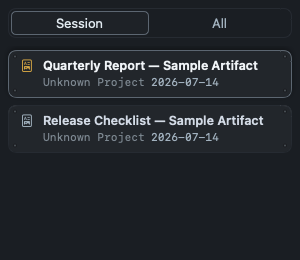
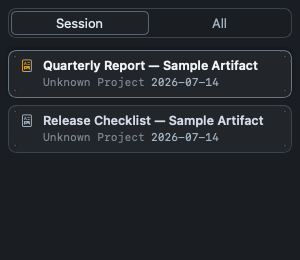
Improve dock list contrast

diff --git a/app/Sources/App/SharedUI/Theme.swift b/app/Sources/App/SharedUI/Theme.swift
@@ -8,7 +8,7 @@ enum AppPalette {
     static let artifactListColumn = panel
     static let artifactViewerBackground = artifactListColumn
     static let terminal = window
-    static let line = NSColor(hex: 0x2b3139)
+    static let line = NSColor(hex: 0x444c56)
     static let lineSoft = NSColor(hex: 0x23282e)
     static let lineSoftSubtle = NSColor(hex: 0x1c2228)
     static let controlFill = NSColor(hex: 0x21262d)
@@ -20,7 +20,7 @@ enum AppPalette {
     static let dim = NSColor(hex: 0x8b949e)
     static let selection = NSColor(hex: 0x2d333b)
     static let hoverBackground = NSColor(hex: 0x21262d)
-    static let hoverBorder = NSColor(hex: 0x68717d)
+    static let hoverBorder = NSColor(hex: 0x768390)
     static let connectorLine = NSColor(hex: 0x3f4750)
 
     // Ported from internal/palette/palette.go and TUI ANSI semantics.
